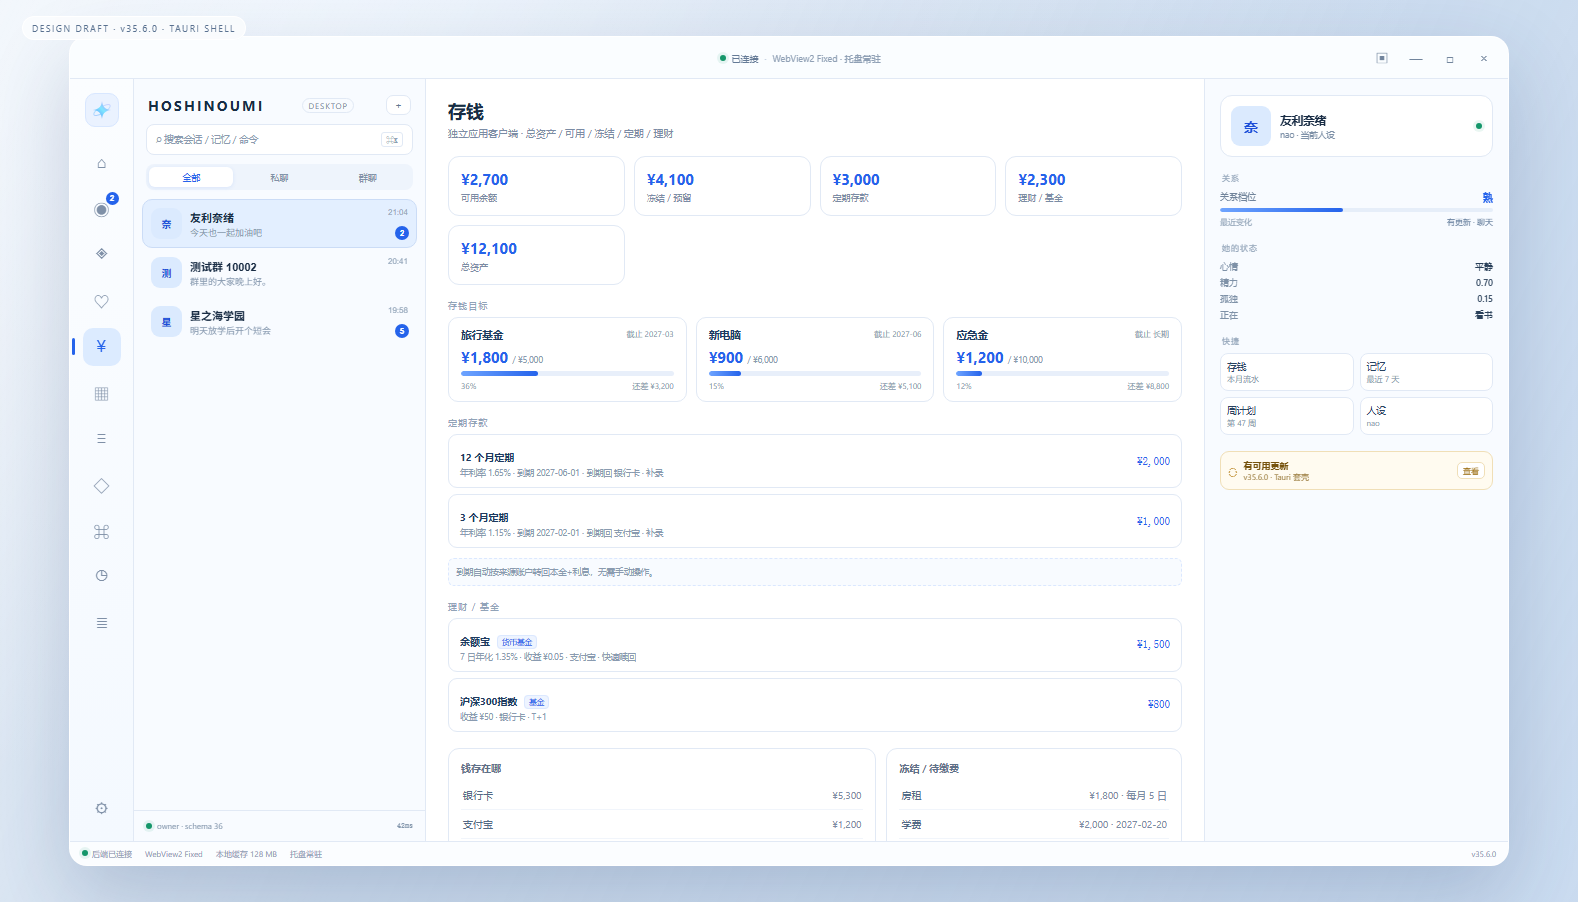
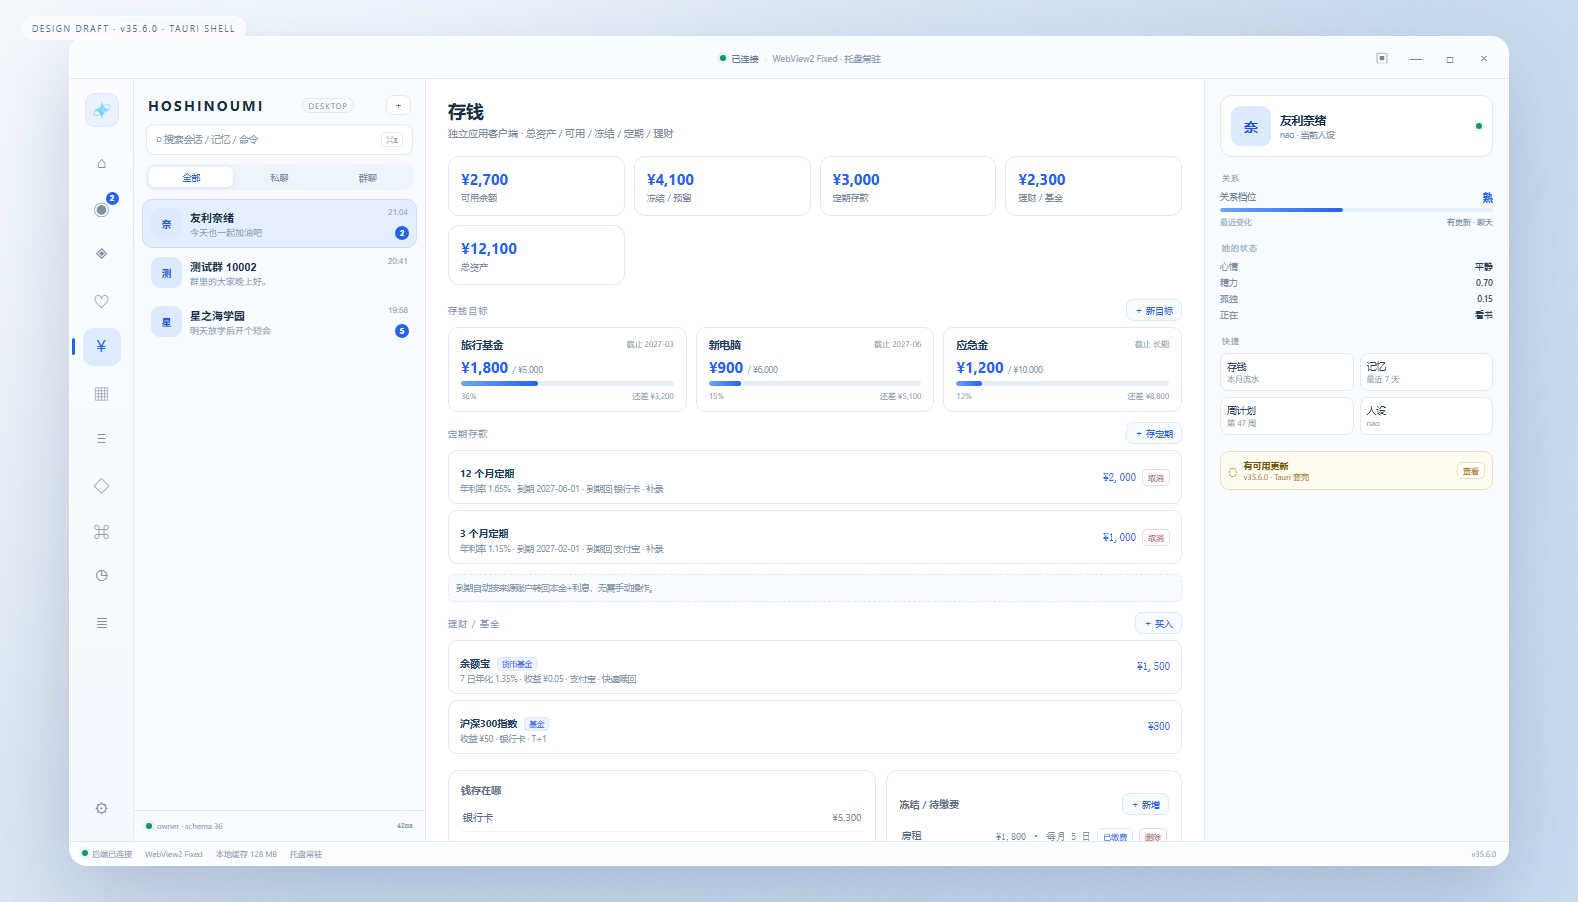
design(v35.6): 客户端存钱页操作按钮

diff --git a/docs/design/v35/desktop/desktop.js b/docs/design/v35/desktop/desktop.js
@@ -79,10 +79,10 @@ function showPage(page){
     `<div class="mem-side"><div class="pv-card"><h3>最近变化</h3><div class="pv-row">聊天<span>有更新</span></div><div class="pv-row">不展示具体数值<span>owner</span></div></div><div class="pv-card"><h3>可见范围</h3><div class="pv-row">仅 owner 全量</div><div class="pv-row">普通用户<span>只看自己</span></div></div></div></div>`
   else if(page==='savings') pv.innerHTML=pageHead('存钱','独立应用客户端 · 总资产 / 可用 / 冻结 / 定期 / 理财')+
     `<div class="pv-grid"><div class="pv-card"><b>¥2,700</b><small>可用余额</small></div><div class="pv-card"><b>¥4,100</b><small>冻结 / 预留</small></div><div class="pv-card"><b>¥3,000</b><small>定期存款</small></div><div class="pv-card"><b>¥2,300</b><small>理财 / 基金</small></div><div class="pv-card"><b>¥12,100</b><small>总资产</small></div></div>`+
-    `<div class="pv-sec">存钱目标</div><div class="sav-goals"><div class="sav-goal"><div class="sav-goal-top"><b>旅行基金</b><small>截止 2027-03</small></div><div class="sav-amt">¥1,800 <small>/ ¥5,000</small></div><div class="sav-bar"><i style="width:36%"></i></div><div class="sav-foot"><span>36%</span><span>还差 ¥3,200</span></div></div><div class="sav-goal"><div class="sav-goal-top"><b>新电脑</b><small>截止 2027-06</small></div><div class="sav-amt">¥900 <small>/ ¥6,000</small></div><div class="sav-bar"><i style="width:15%"></i></div><div class="sav-foot"><span>15%</span><span>还差 ¥5,100</span></div></div><div class="sav-goal"><div class="sav-goal-top"><b>应急金</b><small>截止 长期</small></div><div class="sav-amt">¥1,200 <small>/ ¥10,000</small></div><div class="sav-bar"><i style="width:12%"></i></div><div class="sav-foot"><span>12%</span><span>还差 ¥8,800</span></div></div></div>`+
-    `<div class="pv-sec">定期存款</div><div class="sav-list"><div class="sav-row"><div><b>12 个月定期</b><small>年利率 1.65% · 到期 2027-06-01 · 到期回 银行卡 · 补录</small></div><span>¥2,000</span></div><div class="sav-row"><div><b>3 个月定期</b><small>年利率 1.15% · 到期 2027-02-01 · 到期回 支付宝 · 补录</small></div><span>¥1,000</span></div><div class="sav-tip">到期自动按来源账户转回本金+利息，无需手动操作。</div></div>`+
-    `<div class="pv-sec">理财 / 基金</div><div class="sav-list"><div class="sav-row"><div><b>余额宝 <em>货币基金</em></b><small>7 日年化 1.35% · 收益 ¥0.05 · 支付宝 · 快速赎回</small></div><span>¥1,500</span></div><div class="sav-row"><div><b>沪深300指数 <em>基金</em></b><small>收益 ¥50 · 银行卡 · T+1</small></div><span>¥800</span></div></div>`+
-    `<div class="mem-cols" style="margin-top:10px"><div class="pv-card"><h3>钱存在哪</h3><div class="pv-row">银行卡<span>¥5,300</span></div><div class="pv-row">支付宝<span>¥1,200</span></div><div class="pv-row">微信<span>¥300</span></div><div class="pv-row">现金<span>¥0</span></div></div><div class="pv-card"><h3>冻结 / 待缴费</h3><div class="pv-row">房租<span>¥1,800 · 每月 5 日</span></div><div class="pv-row">学费<span>¥2,000 · 2027-02-20</span></div><div class="pv-row">水电费<span>¥300 · 每月 20 日</span></div><div class="sav-tip">可用余额 = 总资产 ¥12,100 - 冻结 ¥4,100 - 定期 ¥3,000 - 理财 ¥2,300 = ¥2,700</div></div></div>`+
+    `<div class="sav-head"><div class="pv-sec" style="margin:0">存钱目标</div><button class="sav-add" data-sav="goal">＋ 新目标</button></div><div class="sav-goals"><div class="sav-goal"><div class="sav-goal-top"><b>旅行基金</b><small>截止 2027-03</small></div><div class="sav-amt">¥1,800 <small>/ ¥5,000</small></div><div class="sav-bar"><i style="width:36%"></i></div><div class="sav-foot"><span>36%</span><span>还差 ¥3,200</span></div></div><div class="sav-goal"><div class="sav-goal-top"><b>新电脑</b><small>截止 2027-06</small></div><div class="sav-amt">¥900 <small>/ ¥6,000</small></div><div class="sav-bar"><i style="width:15%"></i></div><div class="sav-foot"><span>15%</span><span>还差 ¥5,100</span></div></div><div class="sav-goal"><div class="sav-goal-top"><b>应急金</b><small>截止 长期</small></div><div class="sav-amt">¥1,200 <small>/ ¥10,000</small></div><div class="sav-bar"><i style="width:12%"></i></div><div class="sav-foot"><span>12%</span><span>还差 ¥8,800</span></div></div></div>`+
+    `<div class="sav-head"><div class="pv-sec" style="margin:0">定期存款</div><button class="sav-add" data-sav="fixed">＋ 存定期</button></div><div class="sav-list"><div class="sav-row"><div><b>12 个月定期</b><small>年利率 1.65% · 到期 2027-06-01 · 到期回 银行卡 · 补录</small></div><span class="sav-right">¥2,000<button class="sav-act danger" data-sav="cancel">取消</button></span></div><div class="sav-row"><div><b>3 个月定期</b><small>年利率 1.15% · 到期 2027-02-01 · 到期回 支付宝 · 补录</small></div><span class="sav-right">¥1,000<button class="sav-act danger" data-sav="cancel">取消</button></span></div><div class="sav-tip">到期自动按来源账户转回本金+利息，无需手动操作。</div></div>`+
+    `<div class="sav-head"><div class="pv-sec" style="margin:0">理财 / 基金</div><button class="sav-add" data-sav="fund">＋ 买入</button></div><div class="sav-list"><div class="sav-row"><div><b>余额宝 <em>货币基金</em></b><small>7 日年化 1.35% · 收益 ¥0.05 · 支付宝 · 快速赎回</small></div><span>¥1,500</span></div><div class="sav-row"><div><b>沪深300指数 <em>基金</em></b><small>收益 ¥50 · 银行卡 · T+1</small></div><span>¥800</span></div></div>`+
+    `<div class="mem-cols" style="margin-top:10px"><div class="pv-card"><h3>钱存在哪</h3><div class="pv-row">银行卡<span>¥5,300</span></div><div class="pv-row">支付宝<span>¥1,200</span></div><div class="pv-row">微信<span>¥300</span></div><div class="pv-row">现金<span>¥0</span></div></div><div class="pv-card"><div class="sav-head"><h3>冻结 / 待缴费</h3><button class="sav-add" data-sav="frozen">＋ 新增</button></div><div class="pv-row">房租<span class="sav-right">¥1,800 · 每月 5 日<button class="sav-act" data-sav="pay">已缴费</button><button class="sav-act danger" data-sav="del">删除</button></span></div><div class="pv-row">学费<span class="sav-right">¥2,000 · 2027-02-20<button class="sav-act" data-sav="pay">已缴费</button><button class="sav-act danger" data-sav="del">删除</button></span></div><div class="pv-row">水电费<span class="sav-right">¥300 · 每月 20 日<button class="sav-act" data-sav="pay">已缴费</button><button class="sav-act danger" data-sav="del">删除</button></span></div><div class="sav-tip">可用余额 = 总资产 ¥12,100 - 冻结 ¥4,100 - 定期 ¥3,000 - 理财 ¥2,300 = ¥2,700</div></div></div>`+
     `<div class="pv-sec">最近流水</div><div class="pv-row">午饭<span>-¥35.50</span></div><div class="pv-row">旅行目标<span>+¥500</span></div><div class="pv-row">兼职<span>+¥800</span></div>`
   else if(page==='weekly') {
     const times = ['08:00-08:45','08:55-09:40','10:00-10:45','10:55-11:40','14:00-14:45','14:55-15:40'];
@@ -125,6 +125,12 @@ function showPage(page){
 09:04 WARN  search_images upstream timeout</div>`
 }
 pageView.addEventListener('click', e => {
+  const sav = e.target.closest('[data-sav]');
+  if (sav) {
+    const m = { goal: '新增存钱目标', fixed: '存入定期', fund: '买入理财 / 基金', frozen: '新增冻结 / 待缴费', pay: '标记已缴费并解冻', del: '删除冻结项', cancel: '取消定期，本金转回来源账户' };
+    toast((m[sav.dataset.sav] || '操作') + '（设计稿）');
+  }
+
   const chip = e.target.closest('.cmd-group .cmd-chips i');
   if (chip) { const inp=document.getElementById('cmdInput'); if(inp)inp.value=chip.textContent; const st=document.getElementById('cmdState'); if(st)st.textContent='已选择 · 点执行'; }
   const run = e.target.closest('#cmdRun');

diff --git a/docs/design/v35/desktop/desktop.css b/docs/design/v35/desktop/desktop.css
@@ -65,3 +65,5 @@ body:before{content:"";position:fixed;inset:0;background:linear-gradient(115deg,
   .stage{min-width:1200px;min-height:780px;height:auto;padding:12px}
   .window{width:1180px;height:calc(100vh - 24px);min-height:760px}
 }
+
+.sav-head{display:flex;align-items:center;justify-content:space-between;gap:8px;margin:10px 0 6px}.sav-head h3{margin:0}.sav-add{border:1px solid #dbe8ff;background:#f8fbff;color:var(--blue);border-radius:7px;padding:4px 8px;font:9px var(--font);cursor:pointer}.sav-add:hover{background:#eef4ff}.sav-right{display:flex;align-items:center;gap:6px;font-family:ui-monospace,monospace;font-size:10px;color:#2563eb}.sav-act{border:1px solid #dbe8ff;background:#fff;color:#2563eb;border-radius:5px;padding:2px 5px;font:8px var(--font);cursor:pointer}.sav-act.danger{border-color:#f0d7dd;color:#b23b52}.sav-act:hover{background:#eef4ff}
